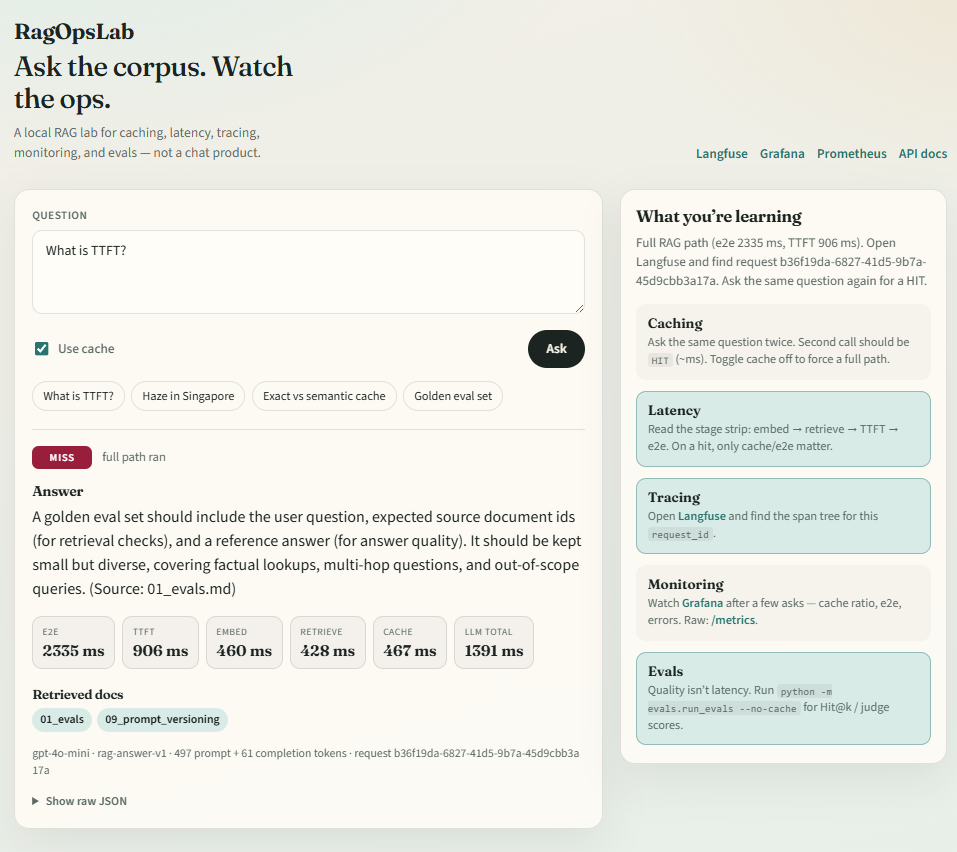
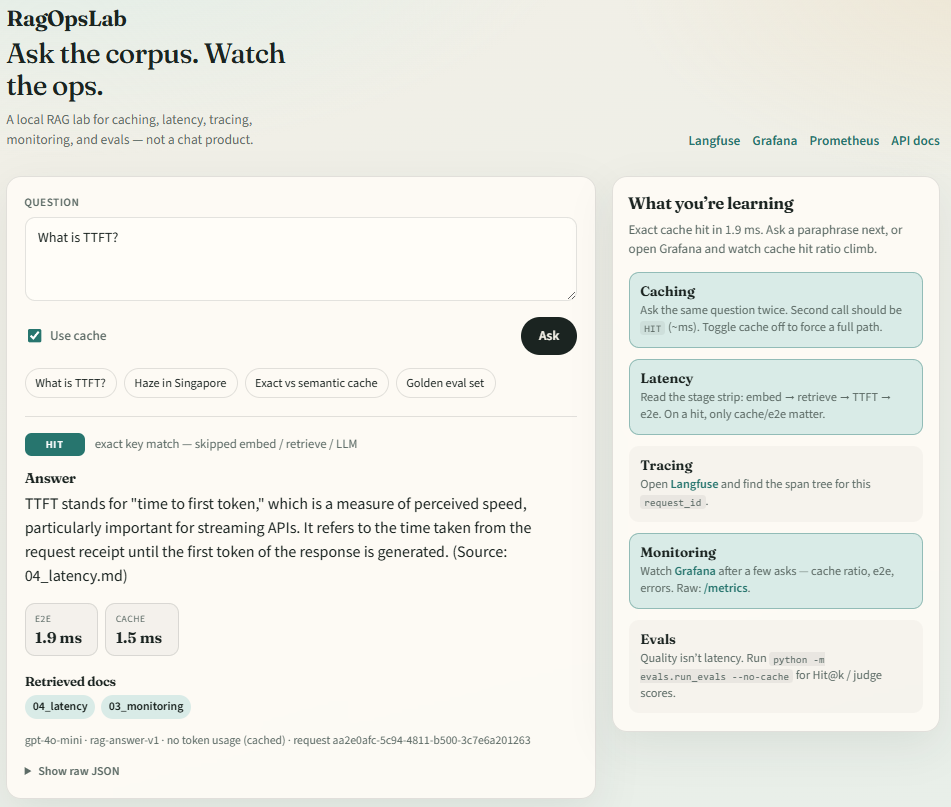
Polish README tour: new Lab UI shot, notes links, architecture lower.

diff --git a/README.md b/README.md
@@ -2,6 +2,58 @@
 
 Local lab for **RAG ops**: caching, latency, tracing, monitoring, and evals — not a chat demo.
 
+## What you'll see
+
+Run one ask in the lab UI, then follow the same request through traces and metrics — deeper explainers live in [`notes/`](notes/).
+
+**Lab UI** ([caching](notes/05_caching.md) · [latency](notes/04_latency.md) · [RAG](notes/06_rag.md)) — cache outcome, stage timings, retrieved docs:
+
+![Lab UI](docs/images/lab-ui.png)
+
+**Langfuse** ([tracing](notes/02_tracing.md)) — cost, tokens, and per-request span trees:
+
+![Langfuse overview](docs/images/langfuse.png)
+
+**Grafana** ([monitoring](notes/03_monitoring.md) · [latency](notes/04_latency.md)) — e2e / stage p95 and cache hit ratio (**RAG Ops Lab** dashboard):
+
+![Grafana RAG Ops Lab](docs/images/grafana.png)
+
+Concept notes: [evals](notes/01_evals.md) · [tracing](notes/02_tracing.md) · [monitoring](notes/03_monitoring.md) · [latency](notes/04_latency.md) · [caching](notes/05_caching.md) · [RAG](notes/06_rag.md)
+
+## Localhost map
+
+| Service | URL | Notes |
+|---------|-----|--------|
+| **Lab UI** | http://localhost:8000 | Ask + timings + learning guide |
+| API docs | http://localhost:8000/docs | Swagger |
+| Metrics | http://localhost:8000/metrics | Prometheus scrape target |
+| **Langfuse** | http://localhost:3000 | Traces / span trees |
+| **Grafana** | http://localhost:3001 | `admin` / `admin` → Dashboards → **RAG** → **RAG Ops Lab** |
+| Prometheus | http://localhost:9090 | Raw metrics |
+| Redis | redis://localhost:6379 | Exact + semantic cache |
+| Chroma | http://localhost:8001 | Vector store (Docker) |
+
+## Quick start
+
+```bash
+docker compose up -d
+
+python -m venv .venv
+# Windows: .\.venv\Scripts\Activate.ps1
+# macOS/Linux: source .venv/bin/activate
+pip install -r requirements.txt
+
+cp .env.example .env
+# set OPENAI_API_KEY
+# Langfuse: open :3000 → sign up → project → Settings → API Keys → paste into .env
+
+set PYTHONPATH=.          # Windows PowerShell: $env:PYTHONPATH = "."
+python -m app.rag.ingest  # embeds corpus into Chroma
+uvicorn app.main:app --host 0.0.0.0 --port 8000
+```
+
+Open http://localhost:8000 — or `curl` `/ask` if you prefer the API.
+
 ## Architecture
 
 ```mermaid
@@ -43,56 +95,6 @@ sequenceDiagram
   A->>F: spans cache/embed/retrieve/generate
 ```
 
-## Localhost map
-
-| Service | URL | Notes |
-|---------|-----|--------|
-| **Lab UI** | http://localhost:8000 | Ask + timings + learning guide |
-| API docs | http://localhost:8000/docs | Swagger |
-| Metrics | http://localhost:8000/metrics | Prometheus scrape target |
-| **Langfuse** | http://localhost:3000 | Traces / span trees |
-| **Grafana** | http://localhost:3001 | `admin` / `admin` → Dashboards → **RAG** → **RAG Ops Lab** |
-| Prometheus | http://localhost:9090 | Raw metrics |
-| Redis | `localhost:6379` | Exact + semantic cache |
-| Chroma | `localhost:8001` | Vector store (Docker) |
-
-## Screenshots
-
-**Lab UI** — answer, cache badge, stage timings, retrieved docs:
-
-![Lab UI](docs/images/lab-ui.png)
-
-**Langfuse** — overview + per-request span tree (`cache_lookup` → `embed` → `retrieve` → `generate`):
-
-![Langfuse overview](docs/images/langfuse.png)
-
-![Langfuse span tree](docs/images/langfuse-span-tree.png)
-
-**Grafana** — e2e / stage latency, cache hit ratio:
-
-![Grafana RAG Ops Lab](docs/images/grafana.png)
-
-## Quick start
-
-```bash
-docker compose up -d
-
-python -m venv .venv
-# Windows: .\.venv\Scripts\Activate.ps1
-# macOS/Linux: source .venv/bin/activate
-pip install -r requirements.txt
-
-cp .env.example .env
-# set OPENAI_API_KEY
-# Langfuse: open :3000 → sign up → project → Settings → API Keys → paste into .env
-
-set PYTHONPATH=.          # Windows PowerShell: $env:PYTHONPATH = "."
-python -m app.rag.ingest  # embeds corpus into Chroma
-uvicorn app.main:app --host 0.0.0.0 --port 8000
-```
-
-Open http://localhost:8000 — or `curl` `/ask` if you prefer the API.
-
 ## Learning loops
 
 | Topic | Try this |
@@ -111,6 +113,7 @@ app/static/    Lab UI
 corpus/        Markdown knowledge base
 evals/         Golden set + judges
 grafana/       Provisioned RAG Ops Lab dashboard
+notes/         Concept explainers
 scripts/       Latency bench
 ```
 
